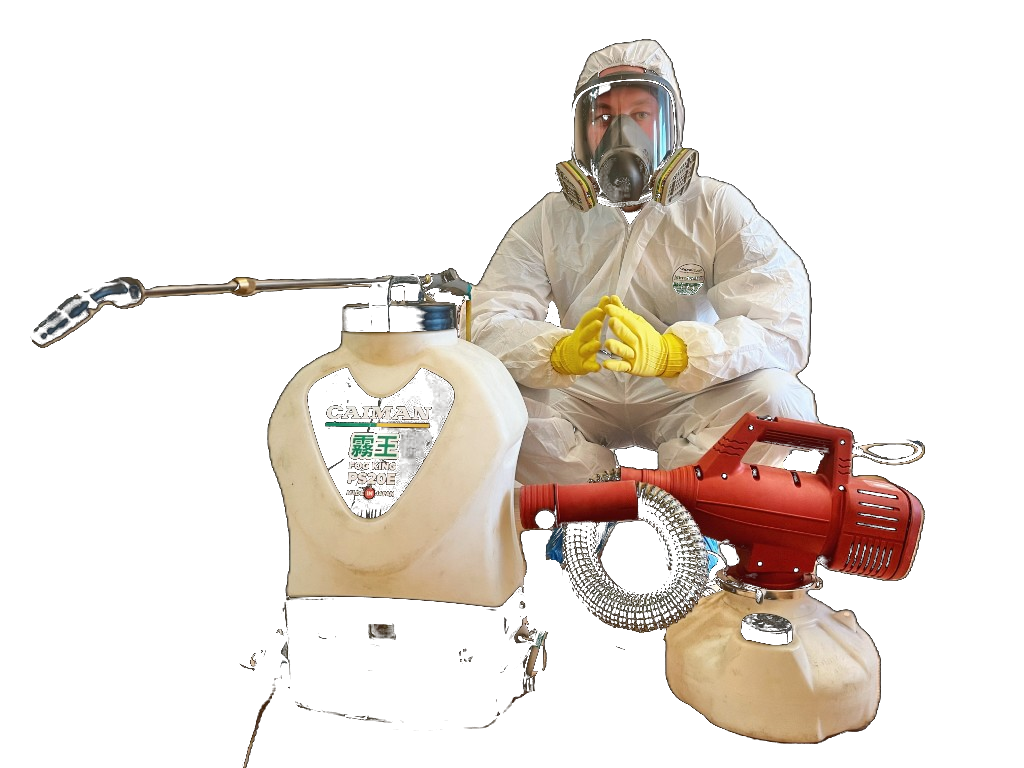
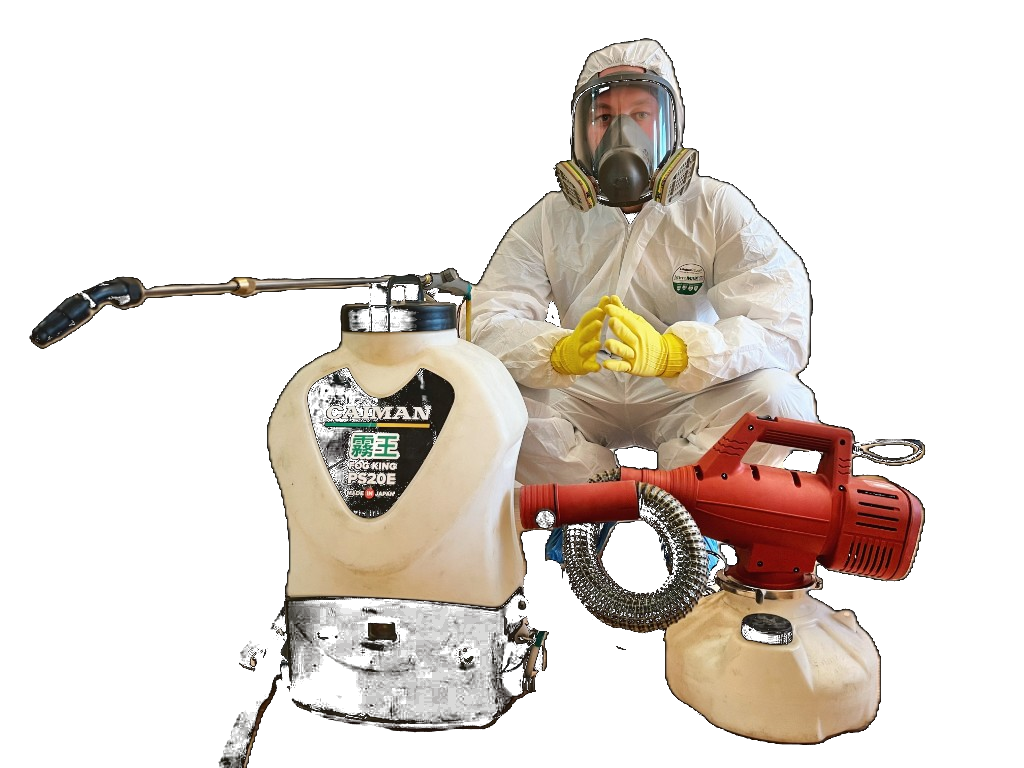
fix(tarakanov): sharper bg removal, shift photo right
Made-with: Cursor

diff --git a/client/src/pages/ServicePage.tsx b/client/src/pages/ServicePage.tsx
@@ -658,7 +658,7 @@ export default function ServicePage() {
             style={{
               position: "absolute",
               bottom: 0,
-              left: "55%",
+              left: "60%",
               transform: "translateX(-50%)",
               height: "100%",
               width: "auto",
